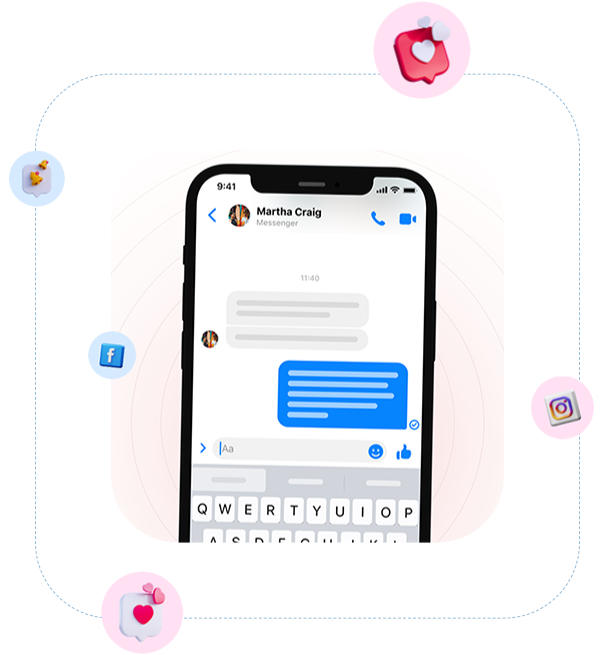
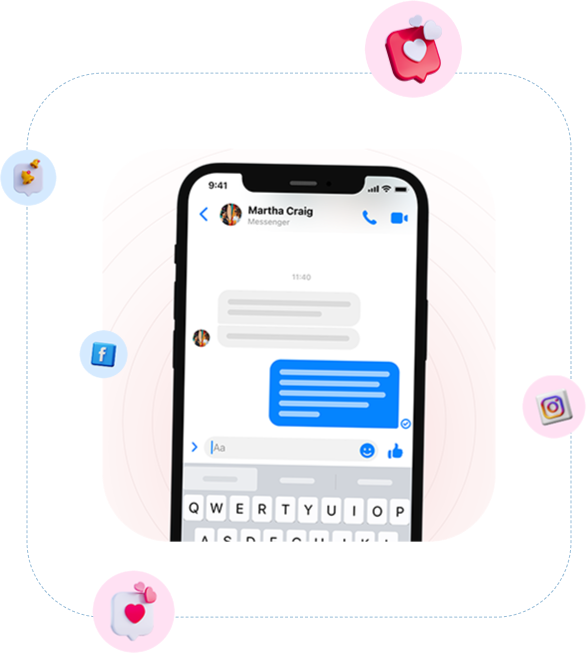
better styles for tablet

diff --git a/src/pages/index.vue b/src/pages/index.vue
@@ -109,14 +109,14 @@ const questionsList = ['Seo quotes to inspire your campaign', 'Much easier to do
         </div>
         <div class="flex flex-col items-center lg:max-w-[32.8125rem] lg:items-start">
           <AppPageHeader
-            title-class="md:!text-center md:!max-w-none !lg:text-left !text-[2rem] !leading-[2.4rem]"
+            title-class="md:!text-center md:!max-w-none md:!leading-[3rem] !lg:text-left !text-[2rem] !leading-[2.4rem] !md:text-[2.5rem]"
             wrapper-class="lg:!items-start"
             class="mt-[3.75rem]"
             subtitle="Worry-Free" title=" Risking Your
             Reputation and
             Losing Sales?"
           />
-          <p class="mt-[1.74625rem] max-w-[22.4375rem] text-[1.2rem] text-[#727272] font-300 leading-[2.04rem] md:max-w-[42.3125rem] lg:text-left">
+          <p class="mt-[1.74625rem] max-w-[22.4375rem] text-[1.2rem] text-[#727272] font-300 leading-[2.04rem] md:max-w-[42.3125rem] md:text-center lg:text-left">
             Our 24/7 Inbox Management is your
             answer to keep up with messages
             and not miss out on potential leads.
@@ -125,7 +125,7 @@ const questionsList = ['Seo quotes to inspire your campaign', 'Much easier to do
             By offering <span class="text-[#191919] underline"> quick replies</span> to your
             audience you will<span class="underline">  elevate your</span><span class="text-[#191919] underline">  brands image</span> and help you <span class="text-[#191919] underline"> get the sale</span>
           </p>
-          <button class="mt-[1.65rem] max-w-[22.5rem] w-full flex justify-center rounded-[1.25rem] bg-[#3482FF] px-[3.4375rem] py-[1.43rem] text-white md:mt-[2.29rem]">
+          <button class="mt-[1.65rem] max-w-[22.5rem] w-full flex justify-center rounded-[1.25rem] bg-[#3482FF] px-[3.4375rem] py-[1.43rem] text-white md:mt-[2.29rem] md:max-w-[17.4375rem]">
             Start Replying Faster
           </button>
         </div>
@@ -142,7 +142,7 @@ const questionsList = ['Seo quotes to inspire your campaign', 'Much easier to do
             wrapper-class="!items-start !md:items-center !lg:items-start"
             subtitle-class="!text-[1.125rem]"
             subtitle="Thinking &quot;Outside The Box&quot;" title="Troubles Growing Your Audience?"
-            title-class="text-left md:!text-center !lg:text-left !text-[2.1875rem] !leading-[2.625rem]"
+            title-class="text-left md:!text-center !lg:text-left md:!text-[2.8125rem] !text-[2.1875rem] !leading-[2.625rem] md:!leading-[3.375rem] md:!max-w-none"
           />
           <p class="mt-[1.74625rem] text-[1.2rem] text-[#727272] font-300 md:text-center lg:text-left">
             <span class="text-[#191919] underline"> Attract new followers</span> that are
@@ -177,9 +177,8 @@ const questionsList = ['Seo quotes to inspire your campaign', 'Much easier to do
         <img class="rotating-image absolute hidden -right-[0.8rem] -top-[7rem] lg:block" src="/large-line.png" alt="">
         <img src="/social-trolls.png" alt="">
         <img class="absolute left-[8rem] top-[5rem] hidden lg:block" src="/exclamation.png" alt="">
-
-        <img id="icon1" class="floating-icon absolute left-[30rem] z-10 hidden xl:block" src="/purple-dot.png" alt="">
-        <img id="icon2" class="floating-icon absolute top-[4rem] hidden xl:block" src="/purple-robot.png" alt="">
+        <img id="icon1" class="floating-icon absolute left-[30rem] z-10 hidden md:block" src="/purple-dot.png" alt="">
+        <img id="icon2" class="floating-icon absolute top-[4rem] hidden md:block" src="/purple-robot.png" alt="">
 
         <div class="z-20 flex flex-col items-center lg:max-w-[32.8125rem] lg:items-start">
           <AppPageHeader
@@ -430,36 +429,70 @@ const questionsList = ['Seo quotes to inspire your campaign', 'Much easier to do
   height: 50px;
   animation: floatAnimationRobot 10s infinite alternate;
 }
+@media (min-width: 768px) {
+  @keyframes floatAnimationDot {
+    0%,
+    100% {
+      transform: translate(200%, -200%);
+    }
+    25% {
+      transform: translate(20%, -30%);
+    }
+    50% {
+      transform: translate(100%, 400%);
+    }
+    75% {
+      transform: translate(300%, 100%);
+    }
+  }
 
-@keyframes floatAnimationDot {
-  0%,
-  100% {
-    transform: translate(400%, -400%);
-  }
-  25% {
-    transform: translate(200%, -30%);
-  }
-  50% {
-    transform: translate(1000%, 400%);
-  }
-  75% {
-    transform: translate(300%, 500%);
+  @keyframes floatAnimationRobot {
+    0%,
+    100% {
+      transform: translate(-200%, 200%);
+    }
+    25% {
+      transform: translate(-200%, 300%);
+    }
+    50% {
+      transform: translate(200%, 400%);
+    }
+    75% {
+      transform: translate(400%, -200%);
+    }
   }
 }
+@media (min-width: 1280px) {
+  @keyframes floatAnimationDot {
+    0%,
+    100% {
+      transform: translate(400%, -400%);
+    }
+    25% {
+      transform: translate(200%, -30%);
+    }
+    50% {
+      transform: translate(1000%, 400%);
+    }
+    75% {
+      transform: translate(300%, 500%);
+    }
+  }
 
-@keyframes floatAnimationRobot {
-  0%,
-  100% {
-    transform: translate(-200%, 200%);
-  }
-  25% {
-    transform: translate(-200%, 300%);
-  }
-  50% {
-    transform: translate(200%, 1000%);
-  }
-  75% {
-    transform: translate(800%, -200%);
+  @keyframes floatAnimationRobot {
+    0%,
+    100% {
+      transform: translate(-200%, 200%);
+    }
+    25% {
+      transform: translate(-200%, 300%);
+    }
+    50% {
+      transform: translate(200%, 1000%);
+    }
+    75% {
+      transform: translate(800%, -200%);
+    }
   }
 }
 
